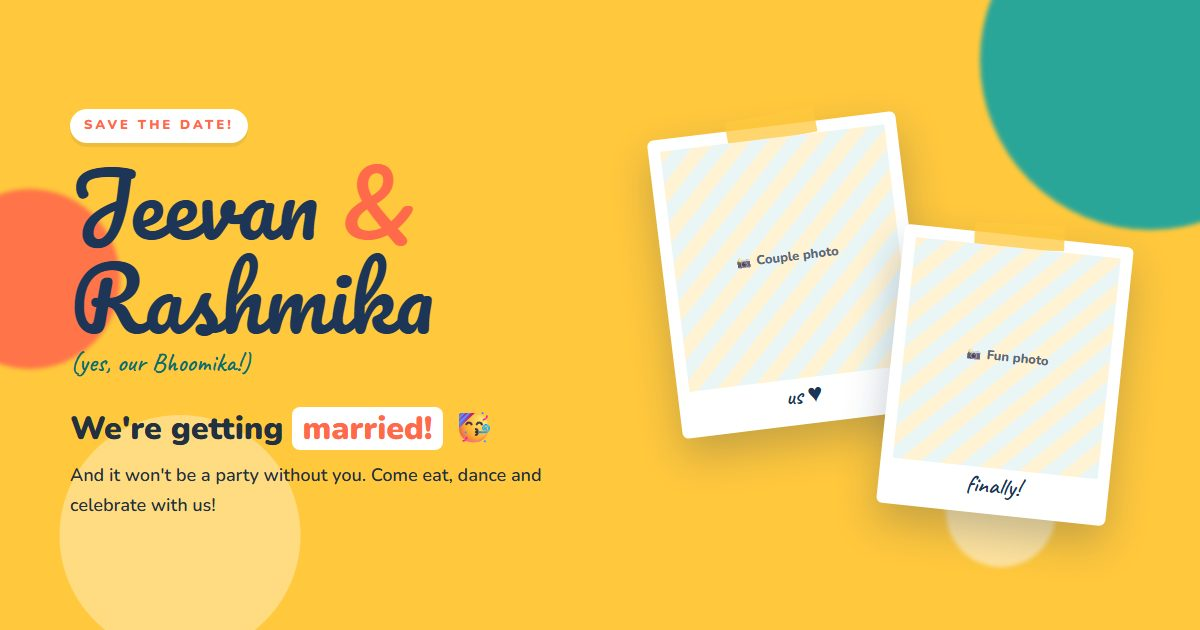
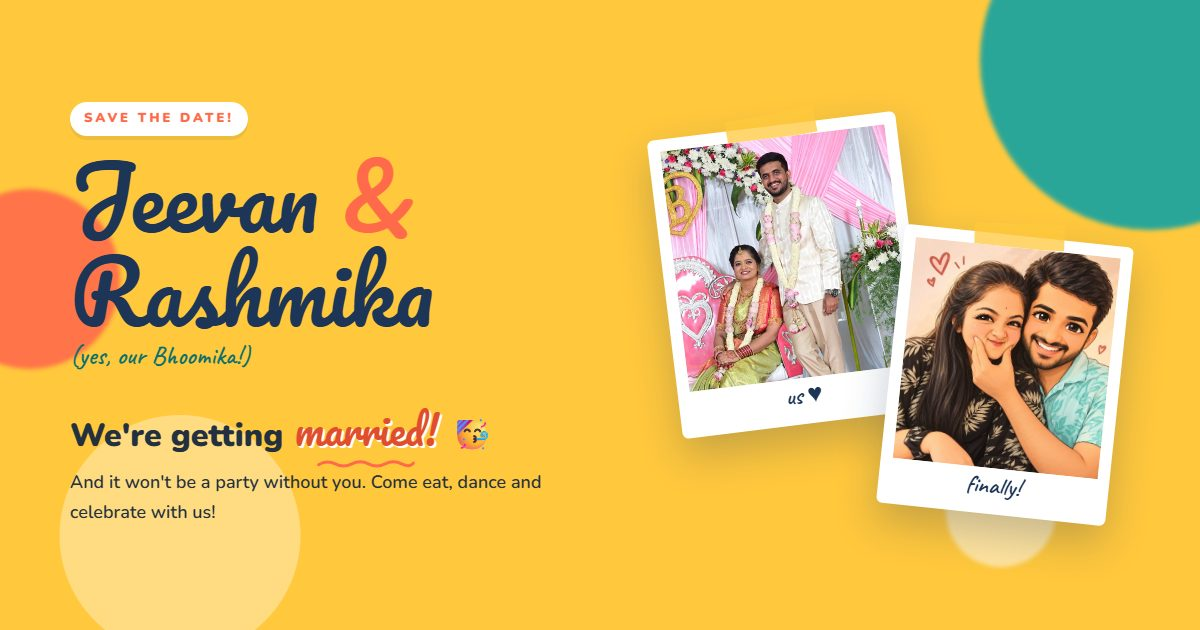
Friends invite: add couple and fun photos, refresh preview image

Changed region(s): [[0.555, 0.181, 0.9558, 0.7841], [0.0617, 0.1508, 0.37, 0.6032], [0.0617, 0.6333, 0.4625, 0.8444]]

diff --git a/rashmika-jeevan/friends/index.html b/rashmika-jeevan/friends/index.html
@@ -250,8 +250,8 @@ footer small{display:block;margin-top:14px;font-weight:800;letter-spacing:2px;co
       </div>
     </div>
     <div class="polaroids">
-      <div class="polaroid p1"><span class="tape"></span><div class="ph" data-label="Couple photo"><img src="../photos/couple.jpg" alt="Jeevan and Rashmika" onerror="this.remove()"></div><div class="cap">us ♥</div></div>
-      <div class="polaroid p2"><span class="tape"></span><div class="ph" data-label="Fun photo"><img src="../photos/gallery-1.jpg" alt="" onerror="this.remove()"></div><div class="cap">finally!</div></div>
+      <div class="polaroid p1"><span class="tape"></span><div class="ph" data-label="Couple photo"><img src="couple.jpg" alt="Jeevan and Rashmika" style="object-position:50% 30%" onerror="this.remove()"></div><div class="cap">us ♥</div></div>
+      <div class="polaroid p2"><span class="tape"></span><div class="ph" data-label="Fun photo"><img src="fun.jpg" alt="Jeevan and Rashmika, a fun sketch" style="object-position:50% 12%" onerror="this.remove()"></div><div class="cap">finally!</div></div>
     </div>
   </div>
 </header>
